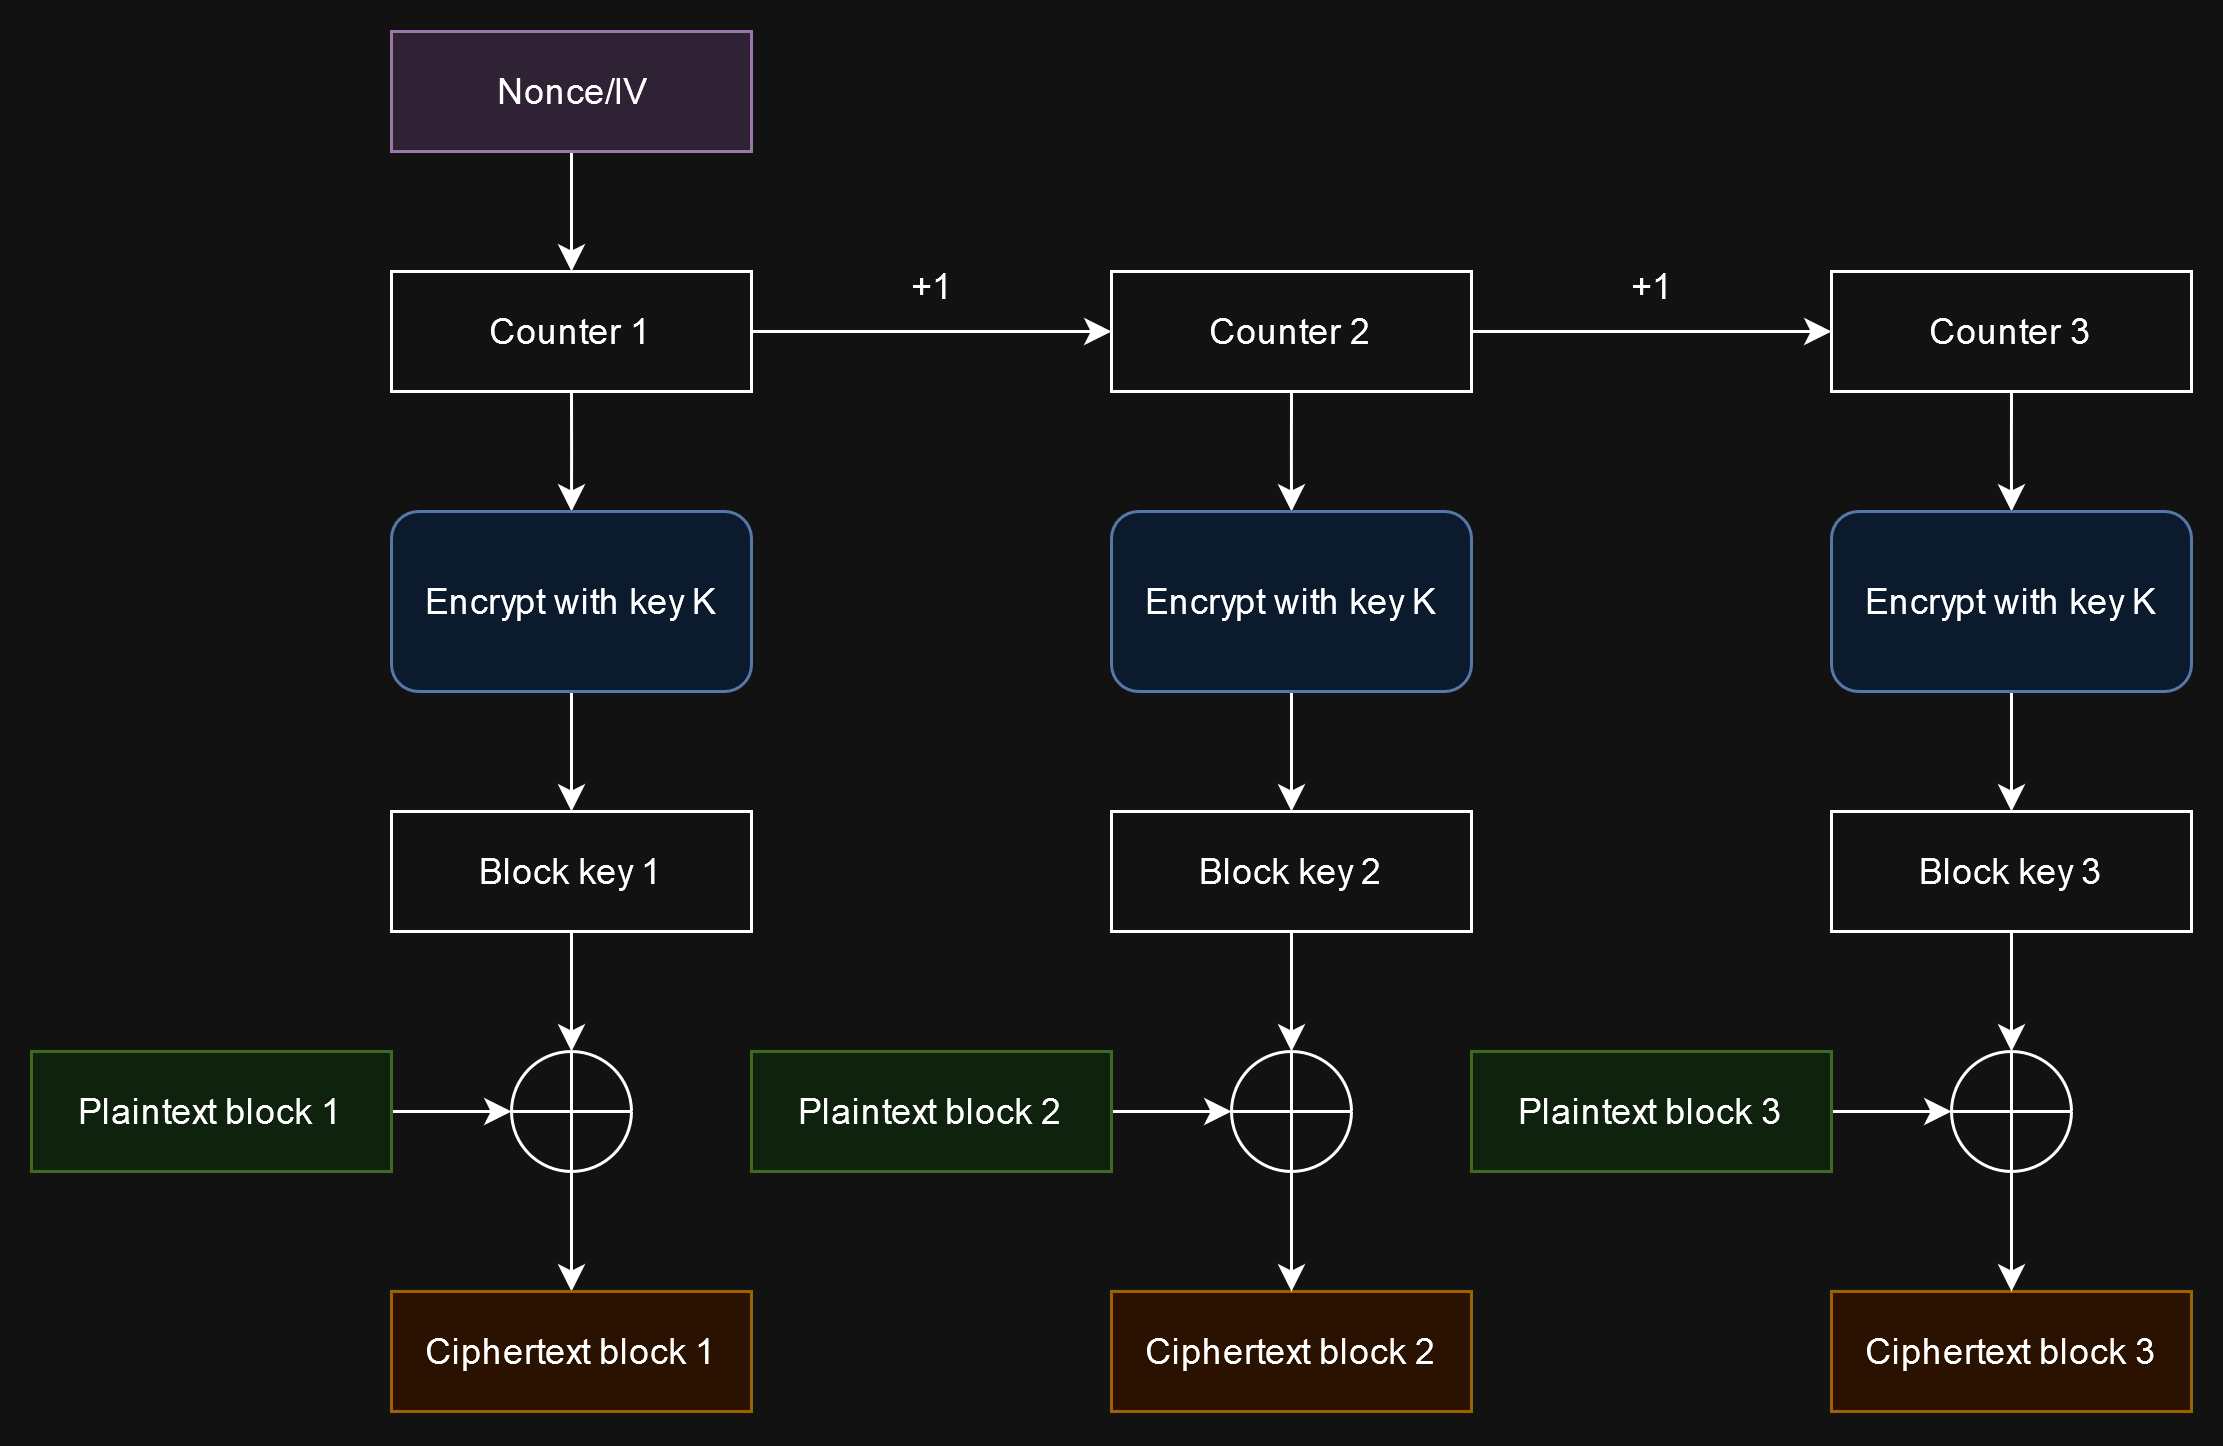
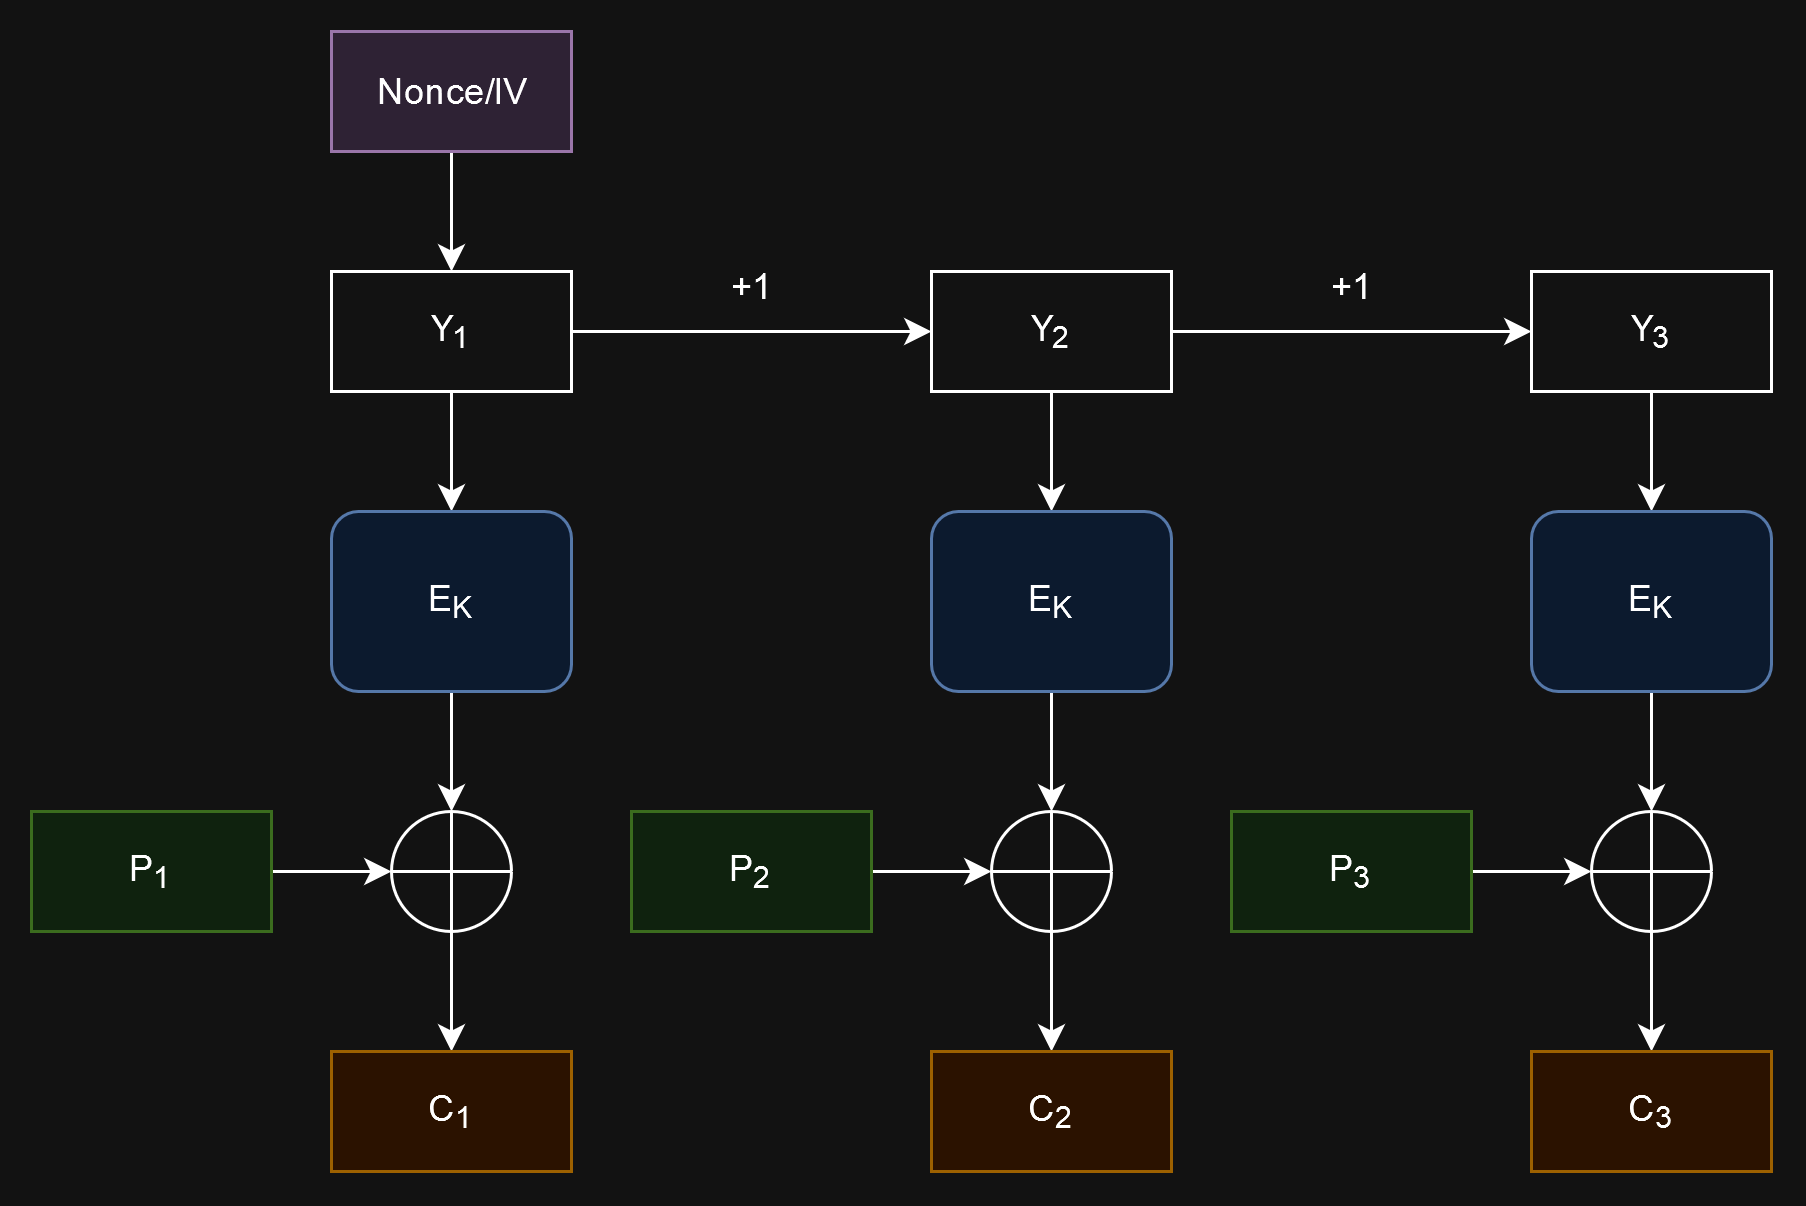
Add latex for GCM

diff --git a/haki-tako-game/README.md b/haki-tako-game/README.md
@@ -22,10 +22,47 @@ We need to find some clever way to use the given CFB and CBC decryption oracle t
 
 Block ciphers such as AES can only operate on fixed-size blocks of messages. Therefore, when encrypting a plaintext that is longer than the block size, a block cipher mode of operation needs to be used, such as GCM, CFB, and CBC. I used this Wikipedia article with excellent diagrams to learn how these modes work (https://en.wikipedia.org/wiki/Block_cipher_mode_of_operation), but I will also give explanations here.
 
-### GCM
+### GCM (Galois/counter mode)
 
-![GCM simplified diagram](images/gcm-simple.png)
+This paper in section 2.3 explains GCM encryption (https://csrc.nist.rip/groups/ST/toolkit/BCM/documents/proposedmodes/gcm/gcm-spec.pdf).
 
-GCM has other steps than what is shown in the diagram, but they are not important for this challenge.
+Let
+* $IV$ be the initialization vector/nonce,
+* $P_i$ the plaintext blocks,
+* $C_i$ the ciphertext blocks,
+* $Y_i$ the counters for each block,
+* $E_K(x)$ the result of encrypting the block $x$ with the key $K$,
+* $\mathrm{len}(x)$ the bit length of $x$, and
+* $\oplus$ the bitwise XOR operator.
 
-As explained in this paper in section 2.3 (https://csrc.nist.rip/groups/ST/toolkit/BCM/documents/proposedmodes/gcm/gcm-spec.pdf), if the nonce/IV is 12 bytes, then the initial value of the counter for block 0 is `IV || 0^31 || 1`, where `||` represents bit concatentation and `0^31` represents 31 0 bits. Since the nonce used in the PIN encryption is 12 bytes, it is easy for us to compute the initial counter value, which will be useful.
+GCM encryption is done by the following formulas:
+
+$$
+\begin{align*}
+
+Y_0 &= \begin{cases}
+    IV\ ||\ 0^{31} 1 & \text{if } \mathrm{len}(IV) = 96 \\
+    \ldots & \text{o.w.}
+\end{cases} \\
+
+Y_i &= Y_{i-1} + 1 \\
+
+C_i &= E_K(Y_i) \oplus P_i
+
+\end{align*}
+$$
+
+![GCM encryption simplified diagram](images/gcm-simple.png)
+
+GCM has other steps that are not described here, but they are not important for this challenge.
+
+GCM effectively turns the block cipher into a stream cipher by using the block cipher to generate a keystream. As in a stream cipher, the plaintext is bitwise XORed with the keystream to produce the ciphertext.
+
+The case where the IV is not 12 bytes has been omitted in the previous formula, since in this challenge, the nonce/IV used in the PIN encryption is 12 bytes. This makes it easy for us to compute the initial counter $Y_0$ value, which will be useful.
+
+### CFB (Cipher feedback)
+
+
+
+### CBC (Cipher block chaining)
+
